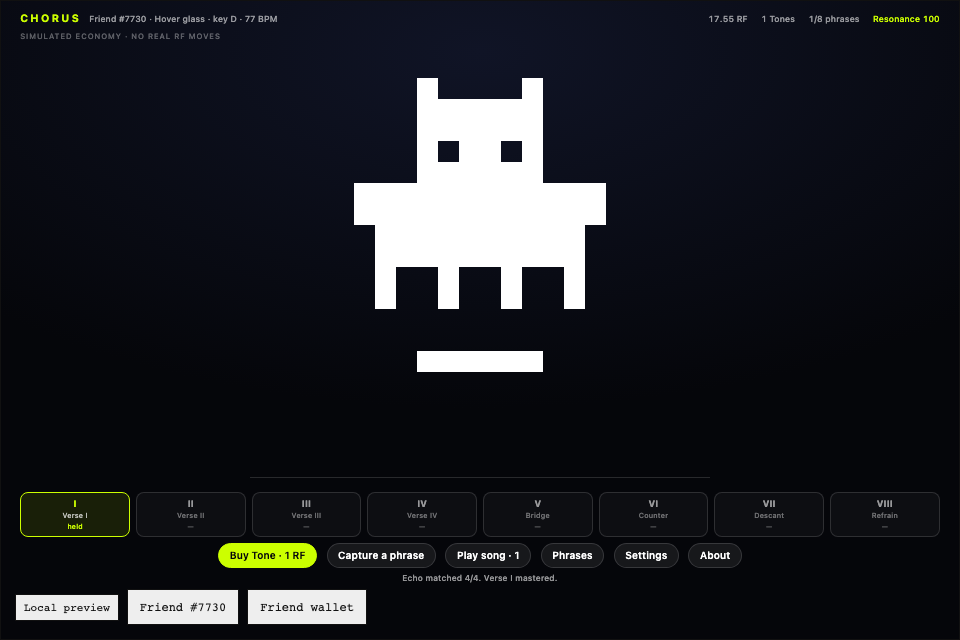
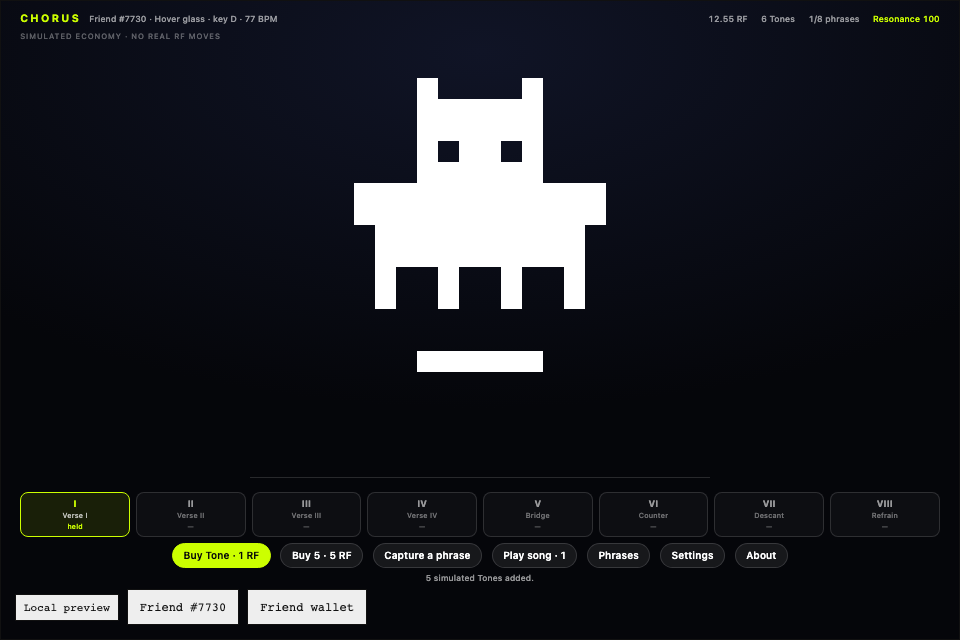
Sell Tones in fives, and record the holder economy check
Every economy action is a trusted prompt, so buying one Tone at a time meant a
confirmation per Tone: spending the 20 RF preview balance took about forty
dialogs. A 5-pack under a single confirmation cuts the purchase prompts from
twenty to four. The pack honours the same reserve rule as a single Tone, so it
is offered only when the game holds free backing for all five.

Also records the holder-side economy check: the trusted confirmation labelled
"Simulated RF. No transaction will be sent.", and the HUD reading 18 RF for
2 Tones, which matches the published 1 RF price exactly.

Changed region(s): [[0.1562, 0.8438, 0.8125, 0.9062]]

diff --git a/games/chorus/index.tsx b/games/chorus/index.tsx
@@ -16,6 +16,8 @@ const ROMAN = ["I", "II", "III", "IV", "V", "VI", "VII", "VIII"] as const;
 const PIXEL = 16;
 const ECHO_WINDOW_MS = 160;
 const MASTERY = 0.6;
+/** A pack size, so filling the rail does not cost one trusted prompt per Tone. */
+const PACK = 5n;
 const rf = (value: bigint) => `${formatGameAmount(value, 18)} RF`;
 
 type Menu = "inventory" | "settings" | "about" | null;
@@ -332,7 +334,13 @@ export default function Chorus({ friendId, client, paused }: GameComponentProps)
   if (snapshot.friendId !== friendId) return <p role="alert">This session does not match the selected Friend.</p>;
 
   const maxPrize = definition.outcomes.reduce((max, item) => (item.reward > max ? item.reward : max), 0n);
-  const canBuy = snapshot.rfBalance >= definition.price && snapshot.freeStake >= maxPrize;
+  // Mirrors the SDK's own purchase rule: every Tone reserves its maximum prize.
+  const affordable = (quantity: bigint) =>
+    snapshot.rfBalance >= definition.price * quantity
+    && snapshot.freeStake >= maxPrize
+    && snapshot.freeStake + definition.price * quantity >= maxPrize * quantity;
+  const canBuy = affordable(1n);
+  const canBuyPack = affordable(PACK);
   const pendingPlay = snapshot.plays.some(play => play.outcomeId === null);
   const canCapture = Boolean(song) && (pendingPlay || snapshot.consumables > 0n);
   const performing = stage.kind === "echo";
@@ -408,6 +416,14 @@ export default function Chorus({ friendId, client, paused }: GameComponentProps)
           cues.current?.play("purchase");
           setMessage("One simulated Tone added.");
         })}>Buy Tone · {rf(definition.price)}</button>
+      <button type="button" disabled={!canBuyPack || busy || paused || engaged}
+        onClick={() => void act(async () => {
+          await client.buy(PACK);
+          setSpentRf(total => total + definition.price * PACK);
+          void cues.current?.unlock();
+          cues.current?.play("purchase");
+          setMessage(`${PACK} simulated Tones added.`);
+        })}>Buy {PACK.toString()} · {rf(definition.price * PACK)}</button>
       <button type="button" disabled={!canCapture || busy || paused || engaged} onClick={() => void capture()}>
         {pendingPlay ? "Finish capture" : "Capture a phrase"}
       </button>

diff --git a/README.md b/README.md
@@ -44,7 +44,8 @@ which keeps this repository self-contained and reproducible.
 
 ## How to play
 
-1. **Buy a Tone** — 1 simulated RF, confirmed in the SDK's trusted frame.
+1. **Buy a Tone** — 1 simulated RF, confirmed in the SDK's trusted frame. **Buy 5**
+   takes five under one confirmation.
 2. **Capture a phrase** — spends the Tone and draws one phrase from the published
    table below, which then plays.
 3. **Echo it** — tap the pad or press **Space** once per note. Optional practice
@@ -155,9 +156,16 @@ Friend #1969
 
 A Friend nobody had composed for before, matching an independent chain read
 exactly. This confirms real-wallet selection, the ownership gate and live artwork
-and trait reads for an arbitrary holder-owned token. The session is freshly
-loaded — 20 RF, 0 Tones, 0/8 phrases — so it does not itself exercise the
-capture loop, which the automated browser check covers instead.
+and trait reads for an arbitrary holder-owned token.
+
+![Buying a Tone with a real wallet connected](artifacts/holder-buy-1969.png)
+
+The economy path with the same wallet: the SDK's trusted confirmation, labelled
+`Simulated RF. No transaction will be sent.`, and the HUD down to **18 RF for
+2 Tones** — exactly the published 1 RF price, with nothing signed.
+
+Still not exercised with a wallet connected: capture, echo, play and redeem. The
+automated browser check covers those against the real runtime.
 
 ## Accessibility
 

diff --git a/games/chorus/README.md b/games/chorus/README.md
@@ -35,7 +35,9 @@ implement any of those.
 
 ## How to play
 
-1. **Buy a Tone** — 1 simulated RF. Confirmed in the SDK's trusted frame.
+1. **Buy a Tone** — 1 simulated RF, confirmed in the SDK's trusted frame. **Buy 5**
+   takes five for 5 RF under a single confirmation, because every economy action
+   is a trusted prompt and filling the rail one Tone at a time is tedious.
 2. **Capture a phrase** — spends the Tone. One phrase of your Friend's song is
    drawn from the published table below, then plays.
 3. **Echo it** — tap the pad or press **Space** once per note. The echo is
@@ -59,7 +61,7 @@ phrase audible.
 | --- | --- |
 | Tap / click the pad | Echo a note |
 | **Space** or **Enter** | Echo a note |
-| Buttons | Buy, capture, play, redeem, settings |
+| Buttons | Buy one, buy five, capture, play, redeem, settings |
 
 Touch and keyboard are both supported. There is no character movement; this is
 not a walkable world.
